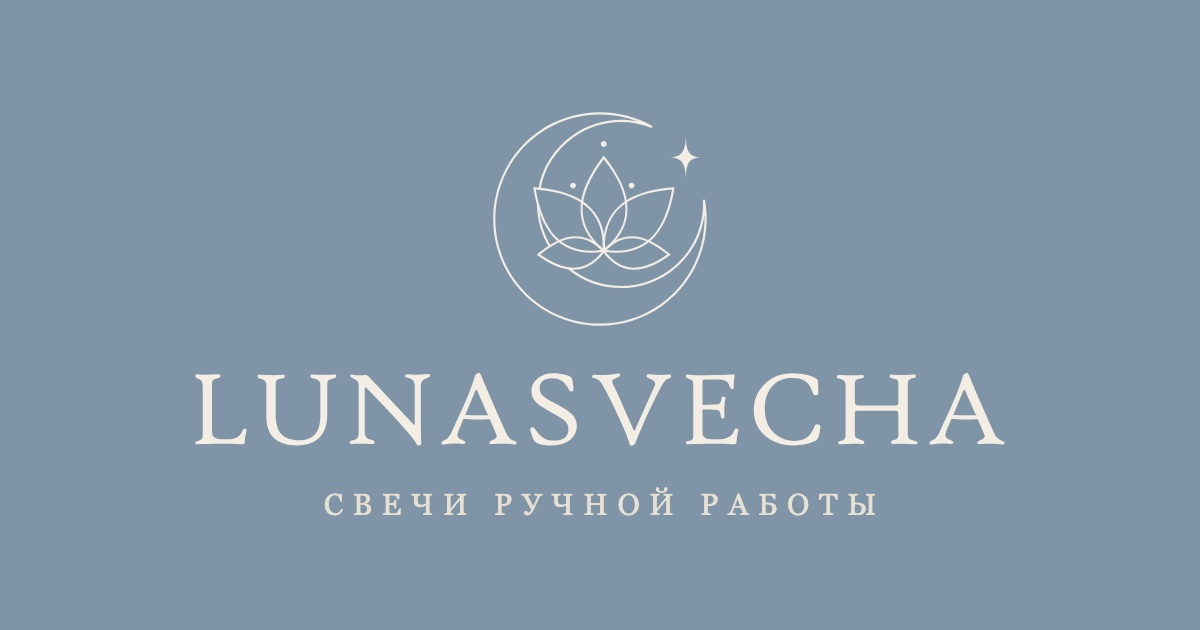
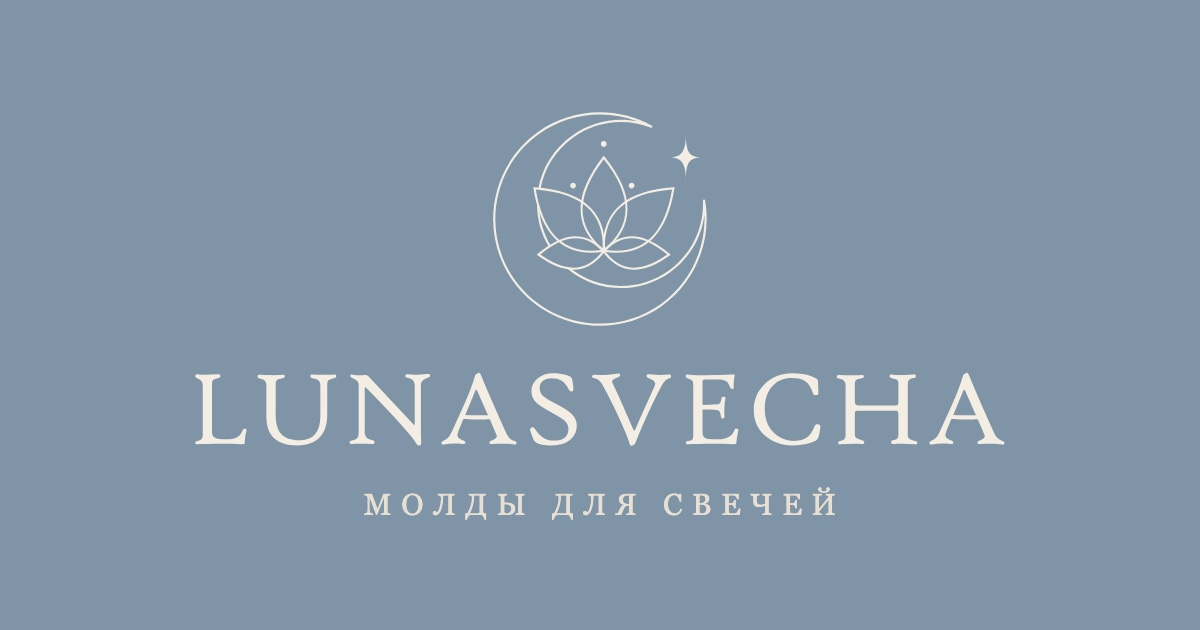
shops - lunasvecha update design

Changed region(s): [[0.2467, 0.7841, 0.74, 0.8444]]

diff --git a/src/components/Marketplace/shopThemes.js b/src/components/Marketplace/shopThemes.js
@@ -11,6 +11,9 @@ import styles from './shopThemes.module.css';
  * десктопе, рядом с видео-приветствием);
  * headerLogo — логотип в центре шапки вместо названия магазина
  * (src + натуральные пропорции для width/height);
+ * headerMark — знак бренда слева в шапке, парный к иконкам справа; вместе
+ * с headerLogo (словомаркой по центру) даёт «разобранный» логотип, при этом
+ * на узких экранах центр прячется и остаётся только знак;
  * heroVideo — квадратный ролик-приветствие над каталогом: webm основной,
  * mp4 (h264) — запасной для старых iPhone (iOS < 17.4 не играет webm);
  * без поддерживаемого формата витрина показывает обычный текстовый заголовок;
@@ -32,13 +35,20 @@ export const SHOP_THEMES = {
   lunasvecha: {
     className: styles.lunasvecha,
     pageBackground: '#f4f1ea',
-    tagline: 'Свечи ручной работы lunasvecha',
+    tagline: 'Магазин молдов lunasvecha',
     description:
-      'Авторские свечи lunasvecha — лью свечи с 2020 года и обучаю свечеварению учеников по всему миру',
+      'Молды для свечей — подборка lunasvecha: лью свечи с 2020 года и обучаю свечеварению учеников по всему миру',
+    // Логотип разобран на две части: знак «луна + лотос» слева, словомарка
+    // по центру; на узких экранах словомарка прячется (см. .brandLinkWithMark).
+    headerMark: {
+      src: '/lunasvecha_mark.svg',
+      width: 120,
+      height: 120,
+    },
     headerLogo: {
-      src: '/lunasvecha_logo.svg',
-      width: 680,
-      height: 121,
+      src: '/lunasvecha_wordmark.svg',
+      width: 673,
+      height: 64,
     },
   },
   af_pastry: {

diff --git a/src/components/Marketplace/Marketplace.module.css b/src/components/Marketplace/Marketplace.module.css
@@ -131,6 +131,40 @@
   text-decoration: none;
 }
 
+/* Знак бренда слева в шапке (headerMark): парный к иконкам справа. */
+.brandMark {
+  position: absolute;
+  left: 16px;
+  top: 50%;
+  transform: translateY(-50%);
+  display: inline-flex;
+}
+
+.brandMark img {
+  display: block;
+  height: 46px;
+  width: auto;
+}
+
+@media (max-width: 600px) {
+  /* На узких экранах центр шапки освобождаем: остаются знак слева и иконки
+     справа, словомарка по центру прячется. Знак становится потоковым —
+     иначе шапка без центрального контента схлопывается по высоте. */
+  .brandMark {
+    position: static;
+    transform: none;
+    margin-right: auto;
+  }
+
+  .brandMark img {
+    height: 40px;
+  }
+
+  .brandLinkWithMark {
+    display: none;
+  }
+}
+
 
 /* Логотип магазина в центре шапки: высота вписана в шапку (52 + 2×16 = 84px,
    как верхний отступ .wrap), ширина — по пропорциям файла. */

diff --git a/src/components/Marketplace/Marketplace.jsx b/src/components/Marketplace/Marketplace.jsx
@@ -200,8 +200,23 @@ const Marketplace = () => {
       )}
       <header className={styles.header}>
         <div className={styles.headerInner}>
+          {theme?.headerMark && (
+            <a className={styles.brandMark} href="#top" aria-label={`${shopName} — наверх`}>
+              <img
+                src={theme.headerMark.src}
+                alt=""
+                width={theme.headerMark.width}
+                height={theme.headerMark.height}
+                decoding="async"
+              />
+            </a>
+          )}
           {theme ? (
-            <a className={styles.brandLink} href="#top" aria-label={`${shopName} — наверх`}>
+            <a
+              className={`${styles.brandLink} ${theme.headerMark ? styles.brandLinkWithMark : ''}`}
+              href="#top"
+              aria-label={`${shopName} — наверх`}
+            >
               {theme.headerLogo ? (
                 <img
                   className={styles.brandLogo}
